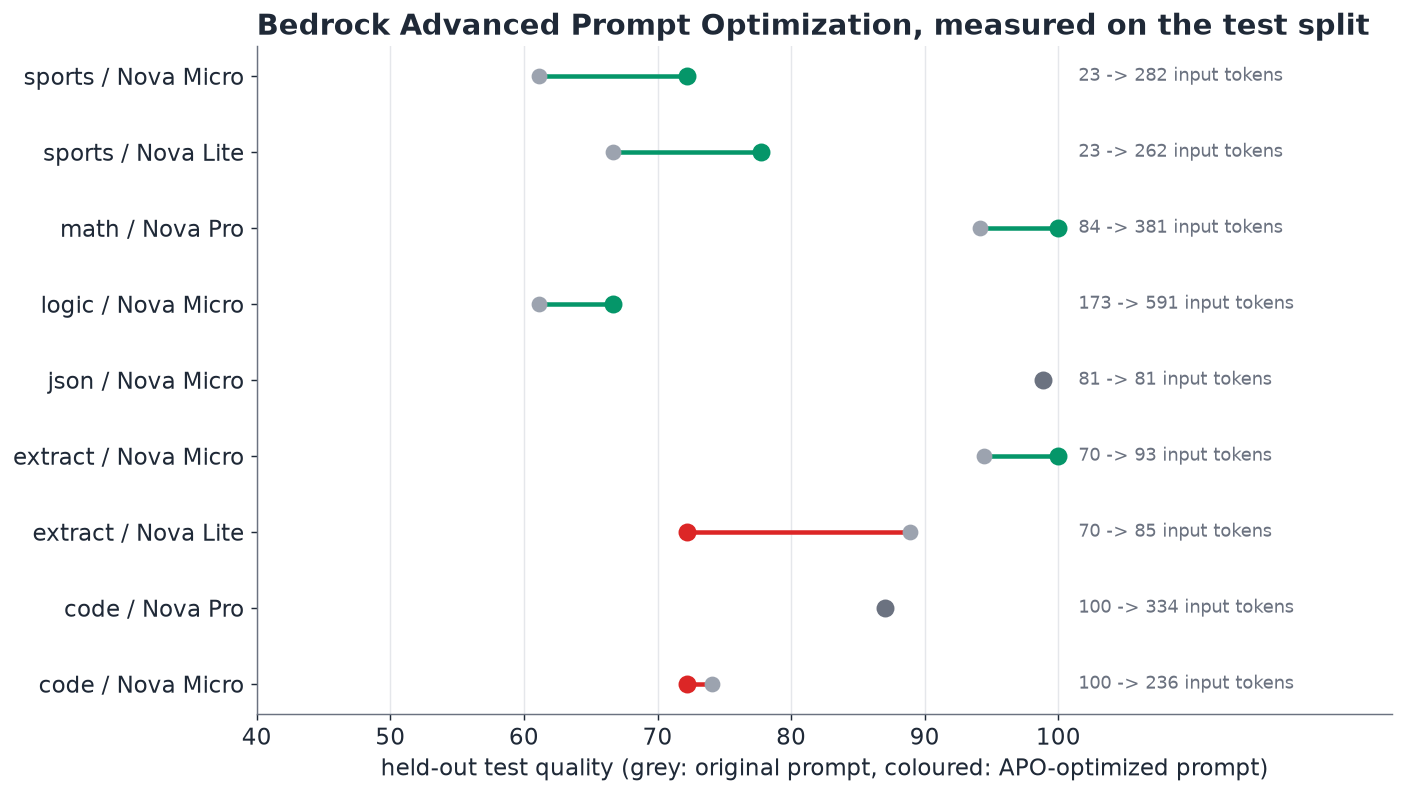
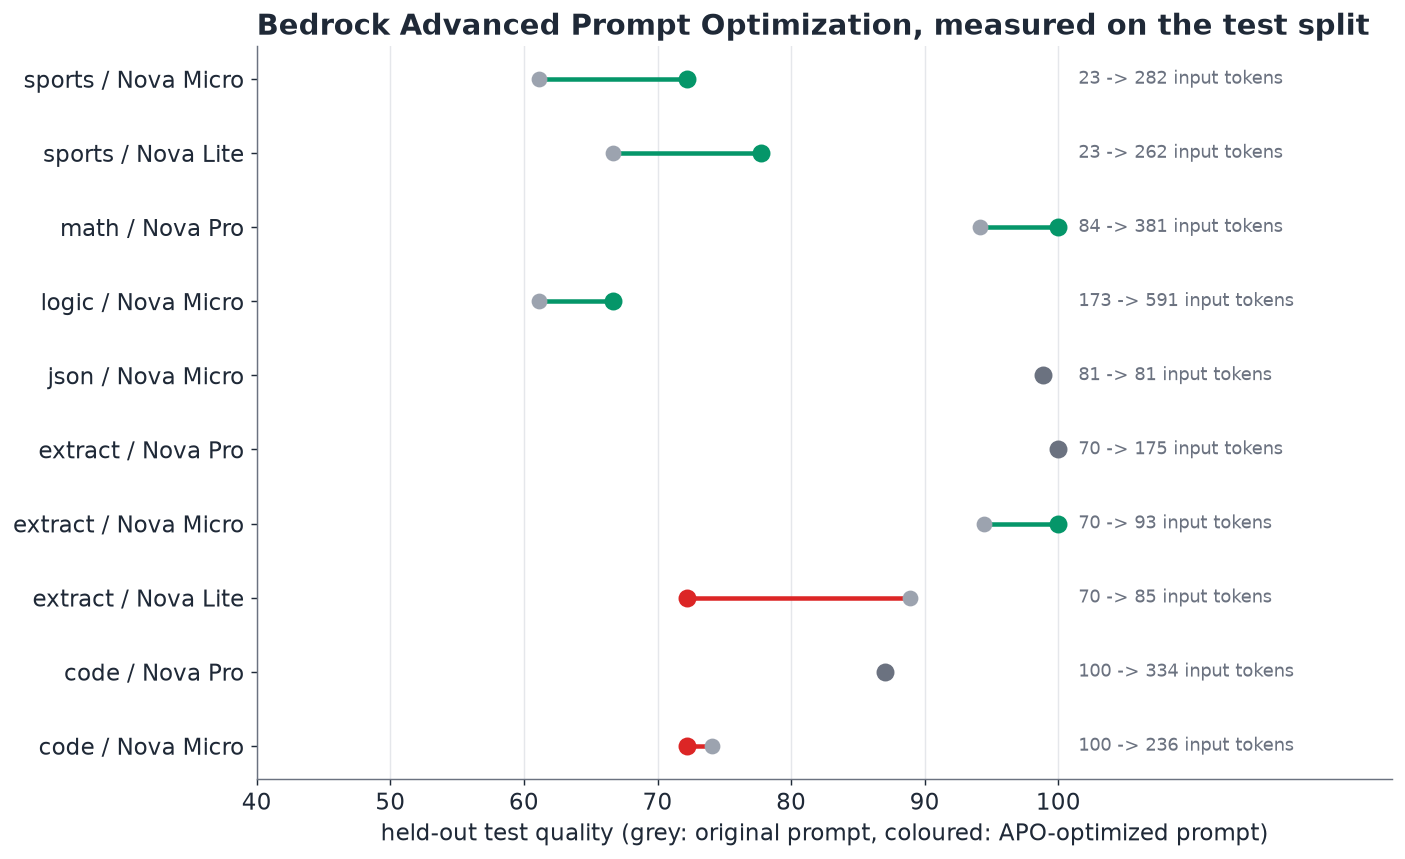
Model routing: final Advanced Prompt Optimization results (10 pairs)

diff --git a/usecases/model-routing/README.md b/usecases/model-routing/README.md
@@ -182,7 +182,7 @@ The setup:
 - **Templates:** 6 (one per task family), 18 train samples each ([`data/apo_input.jsonl`](data/apo_input.jsonl)).
 - **Evaluator:** a Lambda function running the same exact graders as the benchmark, for 5 families ([`apo/lambda_function.py`](apo/lambda_function.py)). APO evaluators may not execute code (the service rejects `os`, `subprocess`, `sys` and `tempfile` imports and `exec`/`compile`), so the code family uses an LLM judge, Claude Sonnet 4.6, that traces the reference tests.
 - **Targets:** Nova Micro, Nova Lite, Nova Pro, Claude Haiku 4.5 and Claude Sonnet 4.6, one job per model ([`apo/apo.py`](apo/apo.py): `create <model> [families]`).
-- **Coverage:** with the account's Claude quota at 10 requests per minute, many entries were throttled or hit an intermittent service error. 9 (family, model) pairs completed; every family has at least one.
+- **Coverage:** with the account's Claude quota at 10 requests per minute, many entries were throttled or hit an intermittent service error. 10 (family, model) pairs completed, all on Nova targets (the Claude Haiku 4.5 and Claude Sonnet 4.6 target jobs produced none); every family has at least one.
 
 Each completed pair was then run on the **held-out test split** with its optimized prompt ([`results/apo_pairs.json`](results/apo_pairs.json)):
 
@@ -194,6 +194,7 @@ Each completed pair was then run on the **held-out test split** with its optimiz
 | code / Nova Pro | 0.23 -> 0.74 (judge scale) | 87.0 -> 87.0 | 100 -> 334 |
 | extract / Nova Lite | 1.00 -> 1.00 | 88.9 -> 72.2 | 70 -> 85 |
 | extract / Nova Micro | 1.00 -> 1.00 | 94.4 -> 100.0 | 70 -> 93 |
+| extract / Nova Pro | 0.94 -> 1.00 | 100.0 -> 100.0 | 70 -> 175 |
 | json / Nova Micro | 1.00 -> 1.00 | 98.9 -> 98.9 | 81 -> 81 |
 | logic / Nova Micro | 0.72 -> 0.94 | 61.1 -> 66.7 | 173 -> 591 |
 | math / Nova Pro | 0.78 -> 1.00 | 94.1 -> 100.0 | 84 -> 381 |
